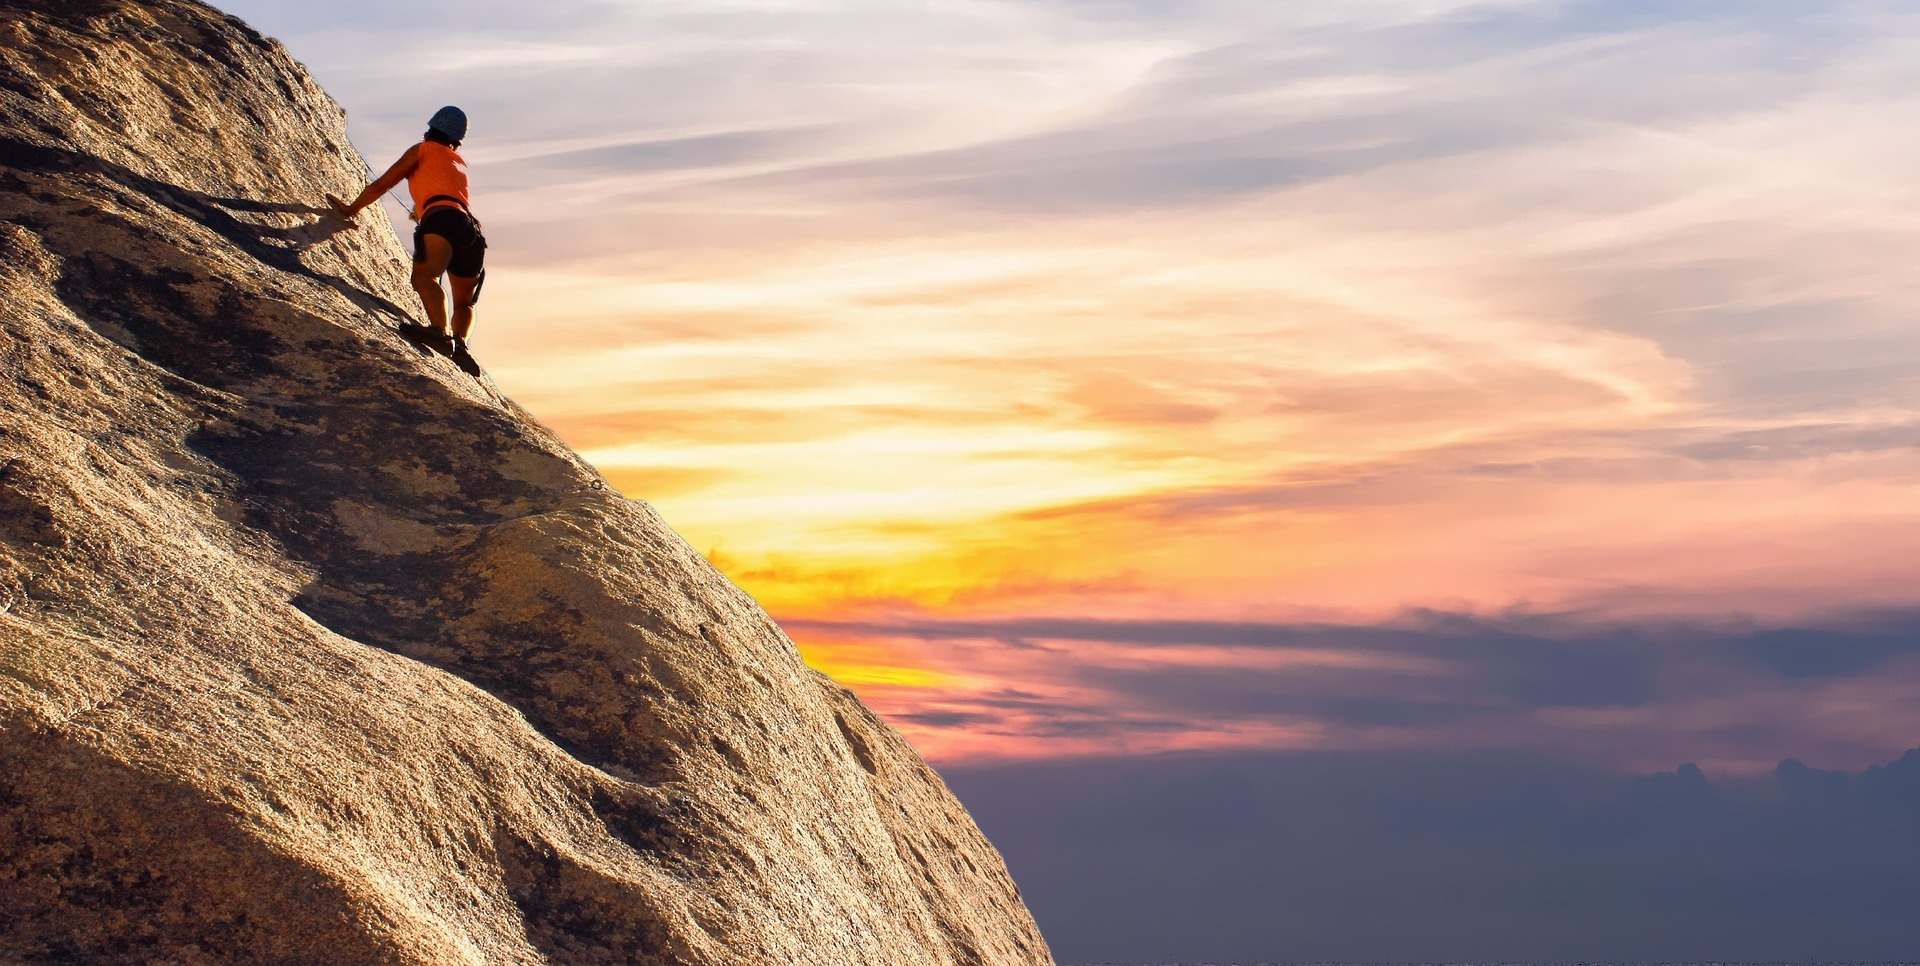
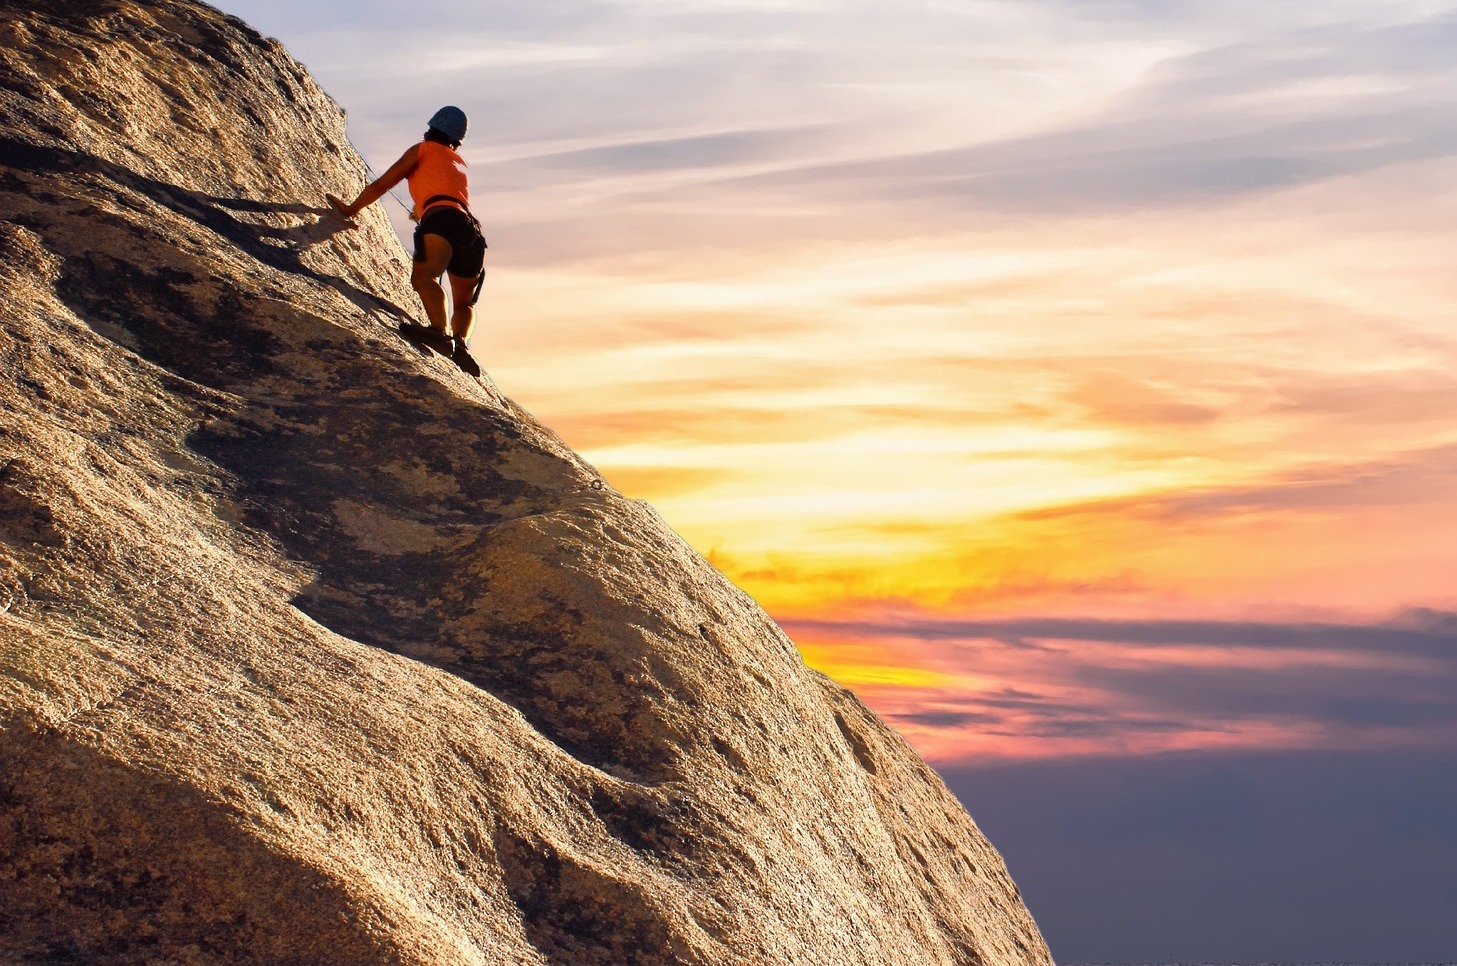
Fix splash page model photos

diff --git a/src/components/Home.js b/src/components/Home.js
@@ -1,6 +1,9 @@
 import React from 'react';
 import { Link } from 'react-router-dom';
 import Splash from '../assets/img/splash.png';
+import Yosemite from '../assets/img/yosemite.jpg';
+import Climbing from '../assets/img/climbing.jpg';
+import Texas from '../assets/img/texas.jpg';
 
 class Home extends React.Component {
   render() {
@@ -27,19 +30,19 @@ class Home extends React.Component {
             <h1 className="text-center">Explore Parks, States, and Activities!</h1>
             <div className="row">
               <div className="col-md-4 model-splash">
-                <img src="https://www.nps.gov/common/uploads/grid_builder/yose/crop16_9/2A84C724-1DD8-B71B-0B0F4361A736E640.jpg?width=950&quality=90&mode=crop" alt="National park landscape"/>
+                <img src={Yosemite} alt="National park landscape"/>
                 <h3>National Parks</h3>
                 <p>Lorem ipsum dolor sit amet, consectetur adipisicing elit. Deserunt veniam ipsum aliquam, illo dignissimos. Quaerat adipisci culpa, odit, provident non inventore nesciunt deleniti at earum qui placeat dolorem labore similique.</p>
                 <Link to="/parks/"><button className="button button-secondary">Explore Parks</button></Link>
               </div>
               <div className="col-md-4 model-splash">
-                <img src="https://www.nps.gov/npgallery/GetAsset/F77E8BB4-155D-451F-670C6F80B88A153E/proxy/hires?" alt="A man climbing outdoors"/>
+                <img src={Climbing} alt="A man climbing outdoors"/>
                 <h3>Recreational Activities</h3>
                 <p>Lorem ipsum dolor sit amet, consectetur adipisicing elit. Ratione ab iste, non quo. Et rerum cum placeat reiciendis corrupti necessitatibus perferendis eaque dolore cumque, maxime non, dignissimos libero debitis repellat?</p>
                 <Link to="/recreation/"><button className="button button-secondary">Explore Activities</button></Link>
               </div>
               <div className="col-md-4 model-splash">
-                <img src="https://www.nps.gov/npgallery/GetAsset/0005A3F1-1DD8-B71B-0B38A6233082EC97/proxy/hires?" alt="A state flag"/>
+                <img src={Texas} alt="Texas state flag"/>
                 <h3>States</h3>
                 <p>Lorem ipsum dolor sit amet, consectetur adipisicing elit. Ipsum odio, quo aliquid asperiores optio quia debitis facere nemo officiis possimus, enim voluptates numquam autem accusamus quibusdam iste, placeat vitae delectus.</p>
                 <Link to="/states/"><button className="button button-secondary">Explore States</button></Link>
